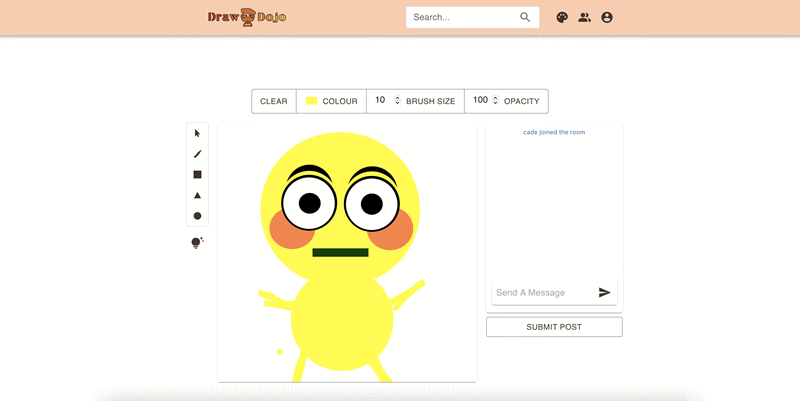
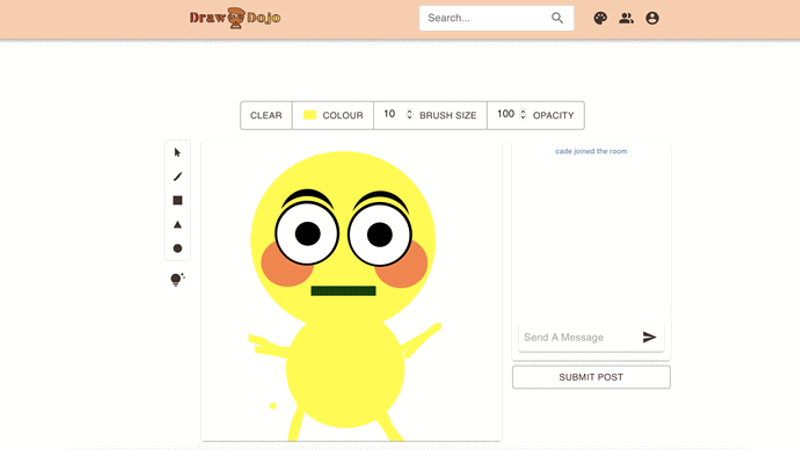
updated slideshows

diff --git a/style.css b/style.css
@@ -160,20 +160,12 @@ input[type=submit]:hover {
     margin-bottom: 1rem;
   }
 
-  .img-container{
-    display: table-cell;  
-  vertical-align: middle;
-  text-align: center;
-  margin: auto;
-  max-height: 100%;
-  max-width: 100%;
-  }
 
   /* Slideshow container */
   .slideshow-container {
     user-select: none;
     max-width: 1000px;
-    min-height:450px;
+    min-height:400px;
     position: relative;
     margin: auto;
   }
